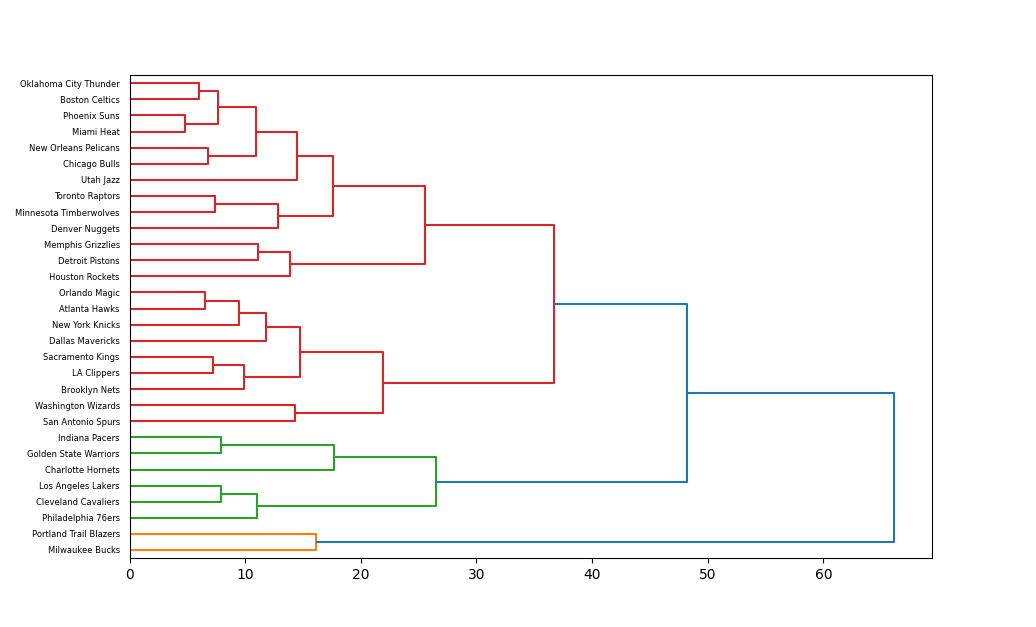
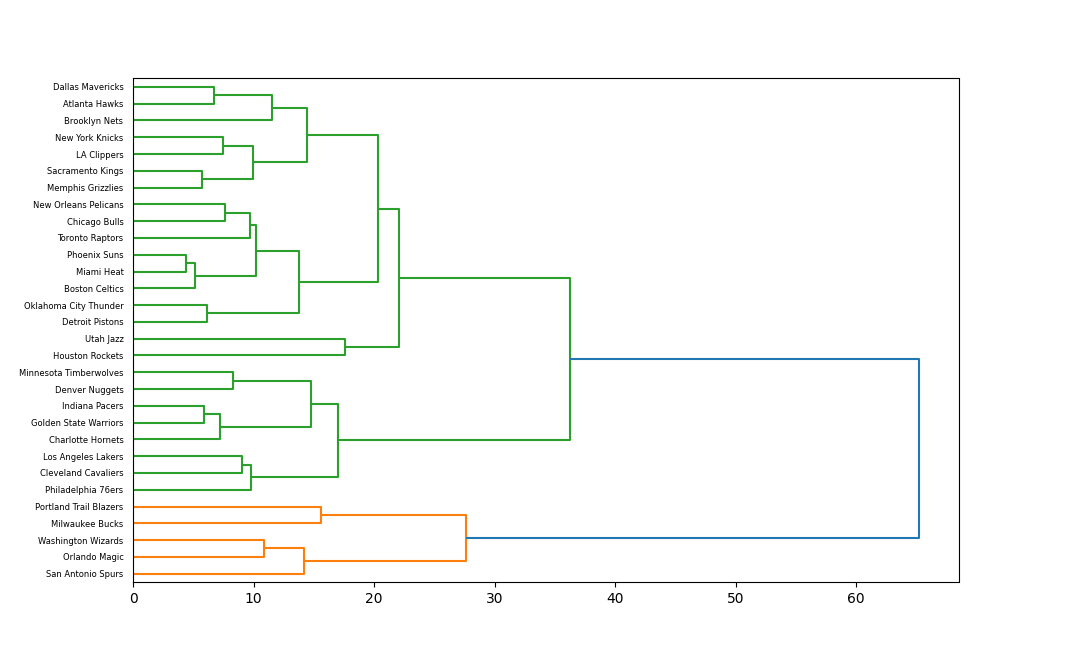
diff stats

diff --git a/dendrogram.py b/dendrogram.py
@@ -8,7 +8,7 @@ from sklearn.preprocessing import StandardScaler
 import matplotlib.pyplot as plt
 
 
-trackingdf = pd.read_csv("alldata.csv")
+trackingdf = pd.read_csv("stargraphdata1.csv")
 teams = trackingdf['TEAM'].to_numpy()
 trackingdf = trackingdf.drop('TEAM', axis=1)
 print()
